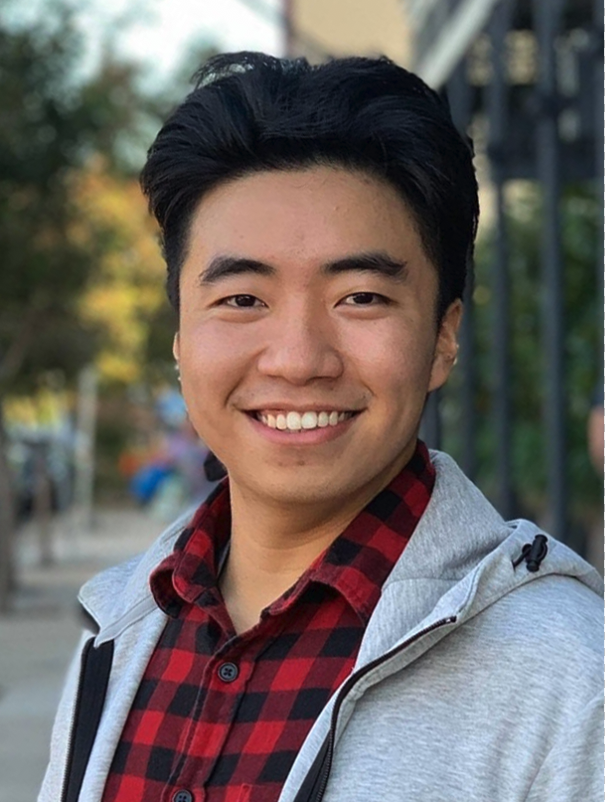
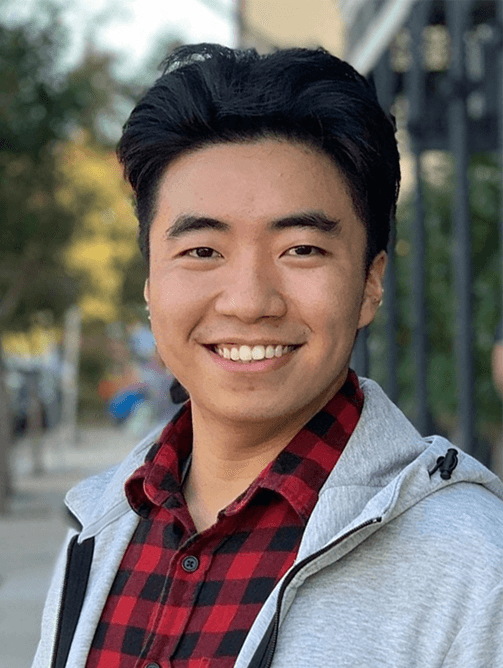
dark mode saved in local storage

diff --git a/src/components/ToggleButton.jsx b/src/components/ToggleButton.jsx
@@ -2,17 +2,10 @@ import { FontAwesomeIcon } from "@fortawesome/react-fontawesome";
 import { faMoon } from "@fortawesome/free-solid-svg-icons";
 import { faSun } from "@fortawesome/free-solid-svg-icons";
 import "./ToggleButton.css";
-
-// const toggleSwitch = document.querySelector('input[type="checkbox"]');
-//document.querySelector('input[attribute='='attribute-value'])
-//check local storage for theme on load
-const currentTheme = localStorage.getItem("theme");
-console.log("the current theme is ", currentTheme);
+import { useEffect } from "react";
 
 //switch theme dynamically
 const switchTheme = (e) => {
-  console.log("e.target.checked", e.target.checked);
-
   if (e.target.checked) {
     document.documentElement.setAttribute("data-theme", "dark");
     localStorage.setItem("theme", "dark");
@@ -23,16 +16,22 @@ const switchTheme = (e) => {
     console.log("local storage set to light");
   }
 };
-///////////////////
-//figure out how to make the togglebutton start on 'checked' when starting in dark mode
-if (currentTheme) {
-  document.documentElement.setAttribute("data-theme", currentTheme);
-  if (currentTheme === "dark") {
-  }
-}
+
 ////////////////
 // Event Listener
 export const ToggleButton = () => {
+  useEffect(() => {
+    //useEffect fetches items on first render (at the end of each render)
+    const currentTheme = localStorage.getItem("theme");
+    const toggleSwitch = document.querySelector('input[type="checkbox"]');
+
+    if (currentTheme) {
+      document.documentElement.setAttribute("data-theme", currentTheme);
+      if (currentTheme === "dark") {
+        toggleSwitch.checked = true;
+      }
+    }
+  });
   return (
     <div>
       {/* outer rectangle box */}

diff --git a/src/components/MyStory.jsx b/src/components/MyStory.jsx
@@ -1,10 +1,13 @@
 import "./MyStory.css";
+import portrait2 from "../img/portrait-2.jpg";
 
 export const MyStory = () => {
   return (
     <article className="my-story-section">
-      <h1 className="section-heading">My Story</h1>
+      <h1 className="section-heading">My Story</h1>{" "}
+      <img src={portrait2} alt="portrait" className="story-portrait" />
       <p>
+        {" "}
         <em className="quote">
           "You've got to find what you love. Your work is going to fill a large
           part of your life, and the only way to be truly satisfied is to do
@@ -12,7 +15,7 @@ export const MyStory = () => {
           to love what you do."
         </em>
         - Steve Jobs, 2005.
-      </p>
+      </p>{" "}
       <br />
       <p>
         Like many young adults in their early to mid 20s, I questioned if I was

diff --git a/src/App.jsx b/src/App.jsx
@@ -15,7 +15,6 @@ function App() {
     const aboutMeEl = document.getElementById("about-me-section");
     const myProjectsEl = document.getElementById("my-projects");
     const contactMeEl = document.getElementById("contact-me");
-    console.log(aboutMeEl);
     if (section === 1) {
       headerEl.scrollIntoView();
     }

diff --git a/src/components/MyStory.css b/src/components/MyStory.css
@@ -2,8 +2,14 @@
   margin-top: 80px;
   height: 100%;
   font-size: 25px;
+  position: relative;
 }
 .quote {
   font-style: italic;
   text-decoration: none;
+}
+.story-portrait {
+  height: 450px;
+  float: right;
+  margin-left: 10px;
 }
